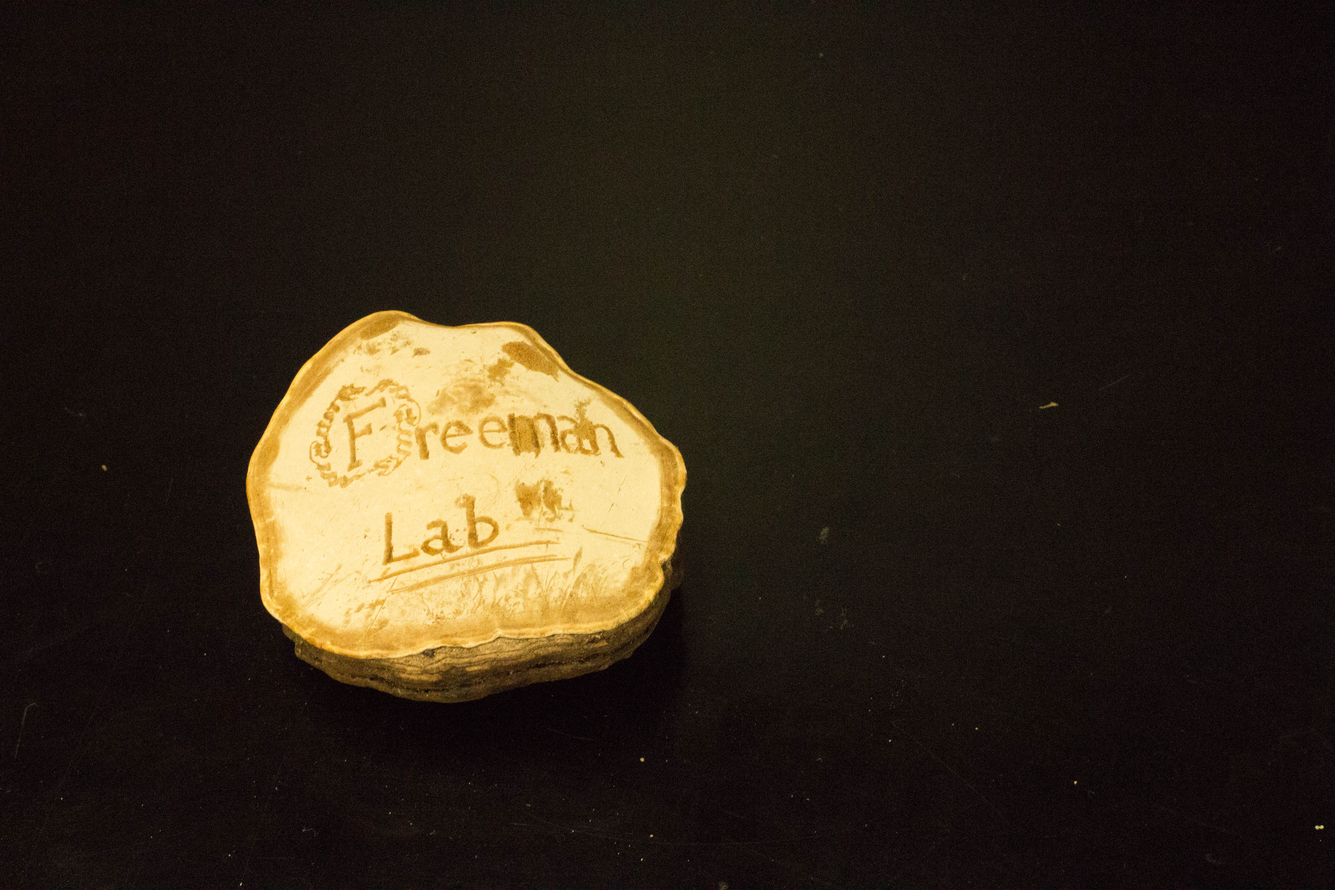
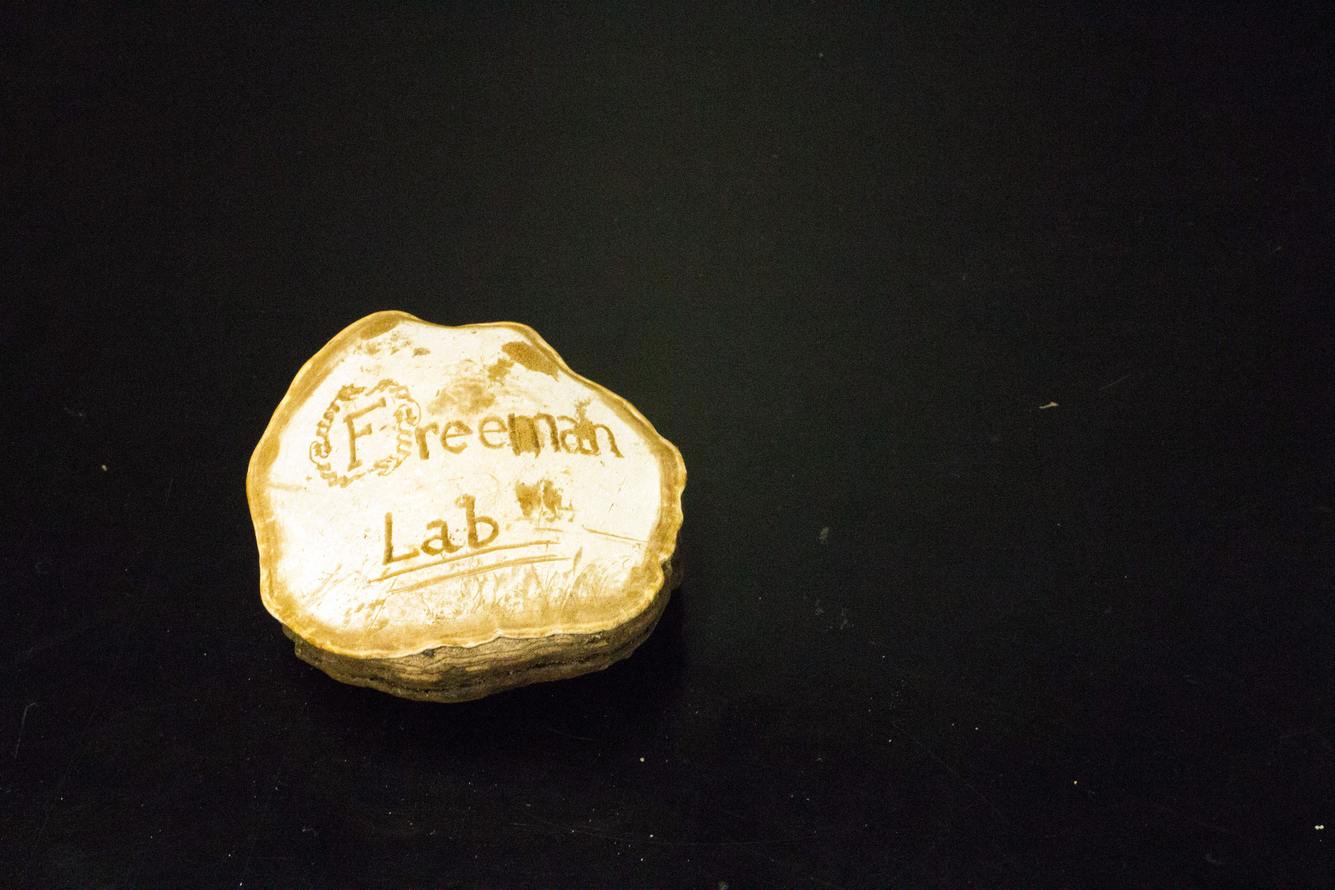
Fixed Jacob, CBS link, width for teeny phones
...also the tone in the original photos...

Changed region(s): [[0.1875, 0.3438, 0.5312, 0.75]]

diff --git a/index.html b/index.html
@@ -83,7 +83,7 @@
 
   <div class="container" id="research">
     <div class="photoband">
-        <img src="images/banners/mass_spectrometer2_slim.jpg" alt="laboratory bottles"/>
+        <img src="images/banners/mass_spectrometer_slim.jpg" alt="mass spectrometer"/>
     </div>
   </div>
 
@@ -166,7 +166,7 @@
             <p>Michael F. Freeman</br>Principal Investigator</br><a href="mailto:mffreema@umn.edu">mffreema@umn.edu</a></br>CV: <a href="docs/Michael_F_Freeman-CV.pdf" target="_blank"><img class="pdflogo" src="images/pdf-logo.gif"></a></p>
           </profile>
           <profile>
-              <img class="pic" src="images/people/matt_jensen.jpg" alt="Matt Jenson"/>
+              <img class="pic" src="images/people/matt_jensen.jpg" alt="Matt Jensen"/>
               <p>Matt Jensen</br>Post Doctoral Associate</br><a href="mailto:jens1458@umn.edu">jens1458@umn.edu</a></p>
           </profile>
           <profile>
@@ -207,7 +207,7 @@
 
   <div class="container" id="news">
       <div class="photoband">
-          <img src="images/banners/petris2_slim.jpg" alt="petri dishes"/>
+          <img src="images/banners/petris_slim.jpg" alt="petri dishes"/>
       </div>
   </div>
 
@@ -232,8 +232,8 @@
               <td class="reg_news_td"><div class="reg_news"><img src="images/news/escape_room_2017.jpg" alt="escape room 2017"/></div></td></tr>
           <tr>
               <td>May 03, 2017</td>
-              <td><div class="mobile_news"><img src="images/news/jason_anderson_2017.jpg" alt="Jason Anderson 2017 Scholarship"/><br class="reg_news_br" />Jason Anderson awarded the prestigious Danielson Blake Family Scholarship…great job Jason!</div></td>
-              <td class="reg_news_td"><div class="reg_news"><img src="images/news/jason_anderson_2017.jpg" alt="Jason Anderson 2017 Scholarship"/></div></td>
+              <td><div class="mobile_news"><img src="images/news/jacob_anderson_2017.jpg" alt="Jacob Anderson 2017 Scholarship"/><br class="reg_news_br" />Jacob Anderson awarded the prestigious Danielson Blake Family Scholarship…great job Jacob!</div></td>
+              <td class="reg_news_td"><div class="reg_news"><img src="images/news/jacob_anderson_2017.jpg" alt="Jacob Anderson 2017 Scholarship"/></div></td>
           </tr>
           <tr>
               <td>August 31, 2016</td>
@@ -267,7 +267,7 @@
   <div class="container content">
       <h5>Contact</h5>
       <h6>Michael F. Freeman, Ph.D.</h6>
-      <p>Assistant Professor</br>Department of Biochemistry, Molecular Biology, and Biophysics</br>& The BioTechnology Institute</br><a href="https://cbs.umn.edu/">College of Biological Sciences</a></br>1479 Gortner Ave</br>Room 244 Gortner Lab</br>Saint Paul, MN 55108</br><a href="mailto:mffreema@umn.edu">mffreema@umn.edu</a></br>OFFICE (+1) 612-625-8575</br> LAB (+1) 612-625-4017</p>
+      <p>Assistant Professor</br>Department of Biochemistry, Molecular Biology, and Biophysics</br>& The BioTechnology Institute</br><a href="https://cbs.umn.edu/" target="_blank">College of Biological Sciences</a></br>1479 Gortner Ave</br>Room 244 Gortner Lab</br>Saint Paul, MN 55108</br><a href="mailto:mffreema@umn.edu">mffreema@umn.edu</a></br>OFFICE (+1) 612-625-8575</br> LAB (+1) 612-625-4017</p>
   </br>
       <p id="join"><b>We are always looking for highly motivated students and researchers!</b></p>
       <p>If you are interested in our work, please send me your CV and a detailed description of your research experience and your specific interests in our group.</p>

diff --git a/css/skeleton.css b/css/skeleton.css
@@ -48,7 +48,15 @@
 /* For devices larger than 300px */
 @media (min-width: 300px) {
   .container {
-    width: 85%;
+    width: 100%;
+    padding: 0;
+  }
+}
+
+/* For devices larger than 400px */
+@media (min-width: 400px) {
+  .container {
+    width: 90%;
     padding: 0;
   }
 }
